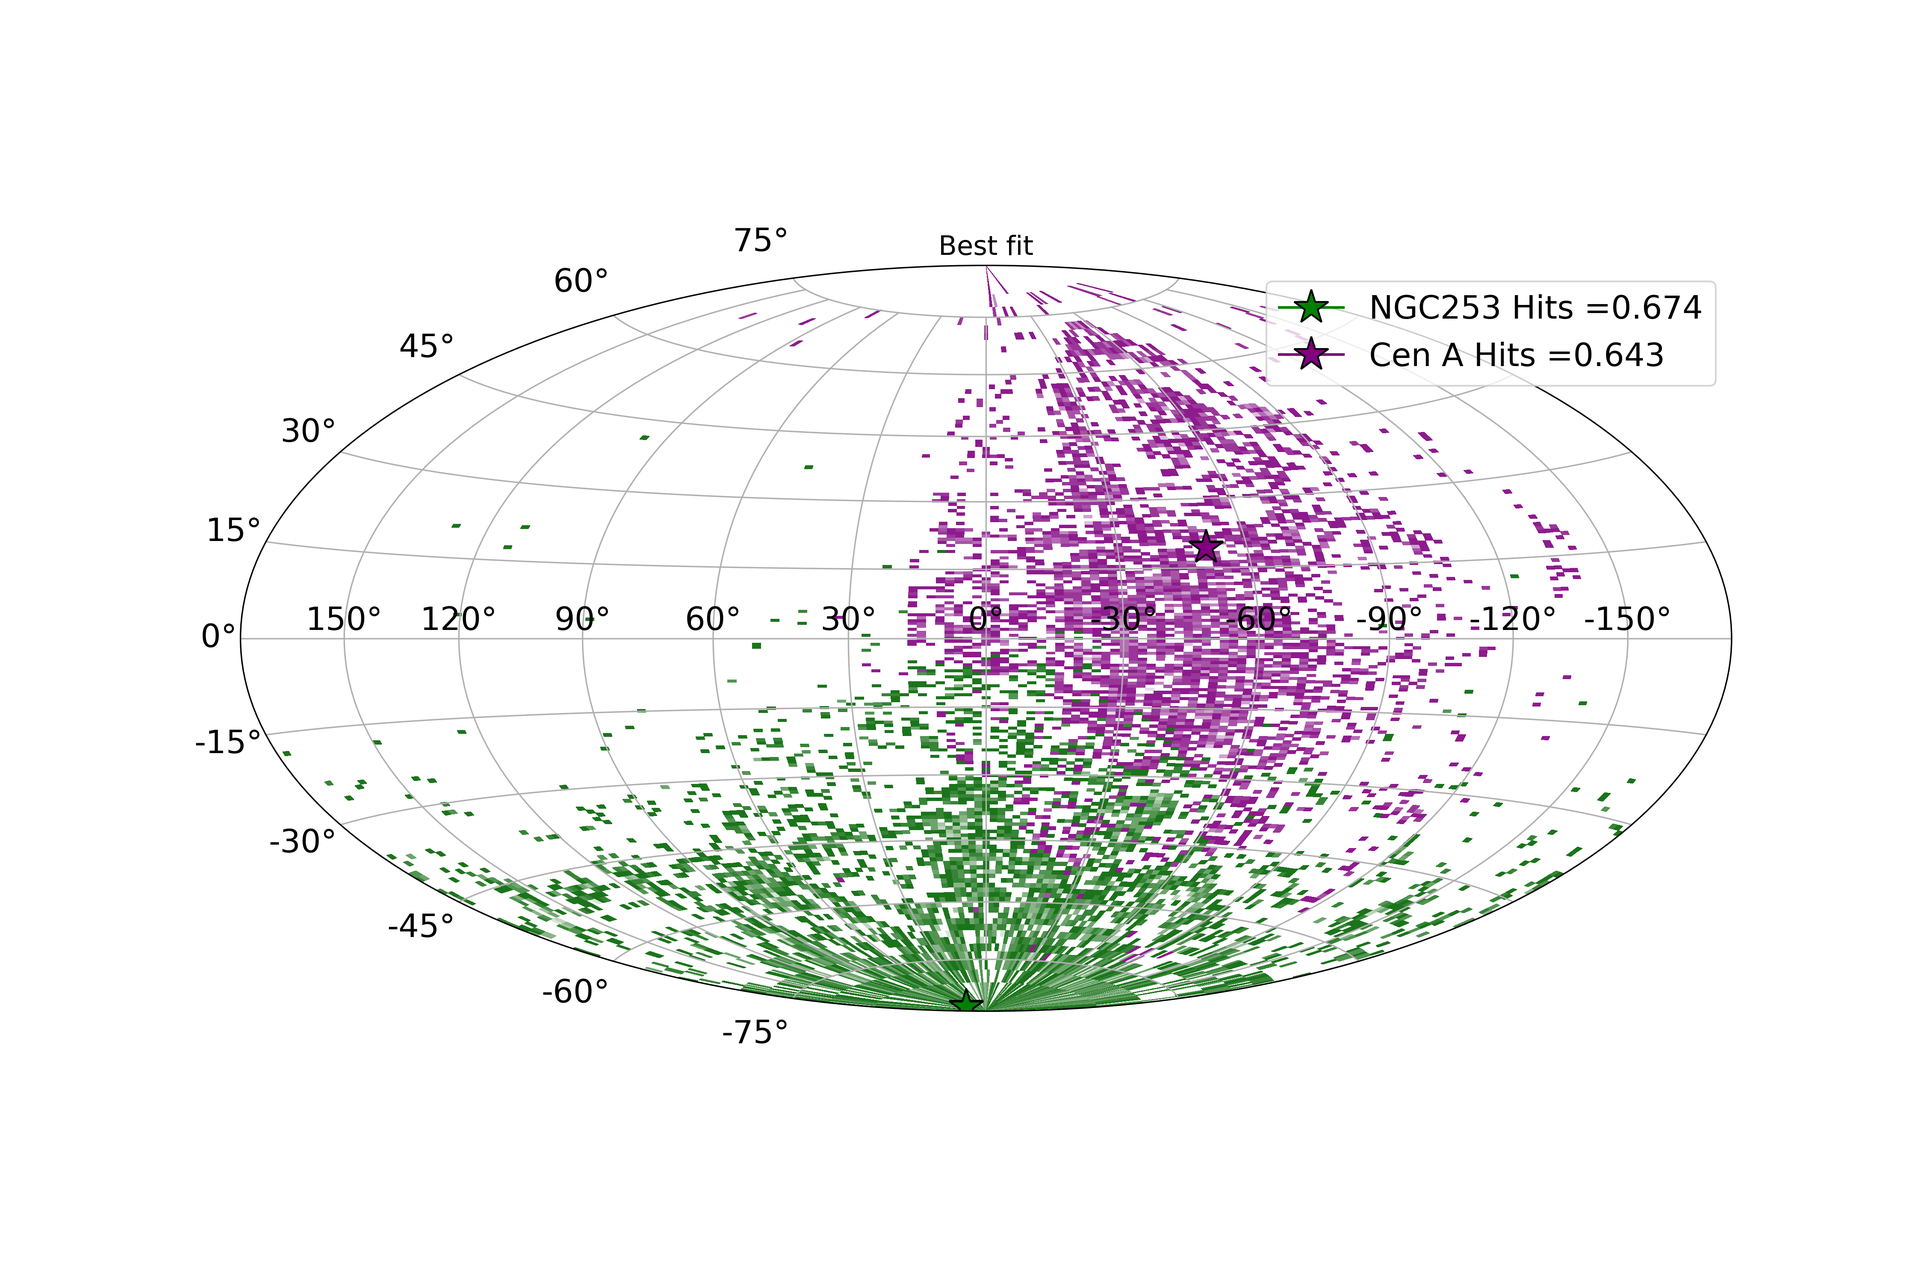
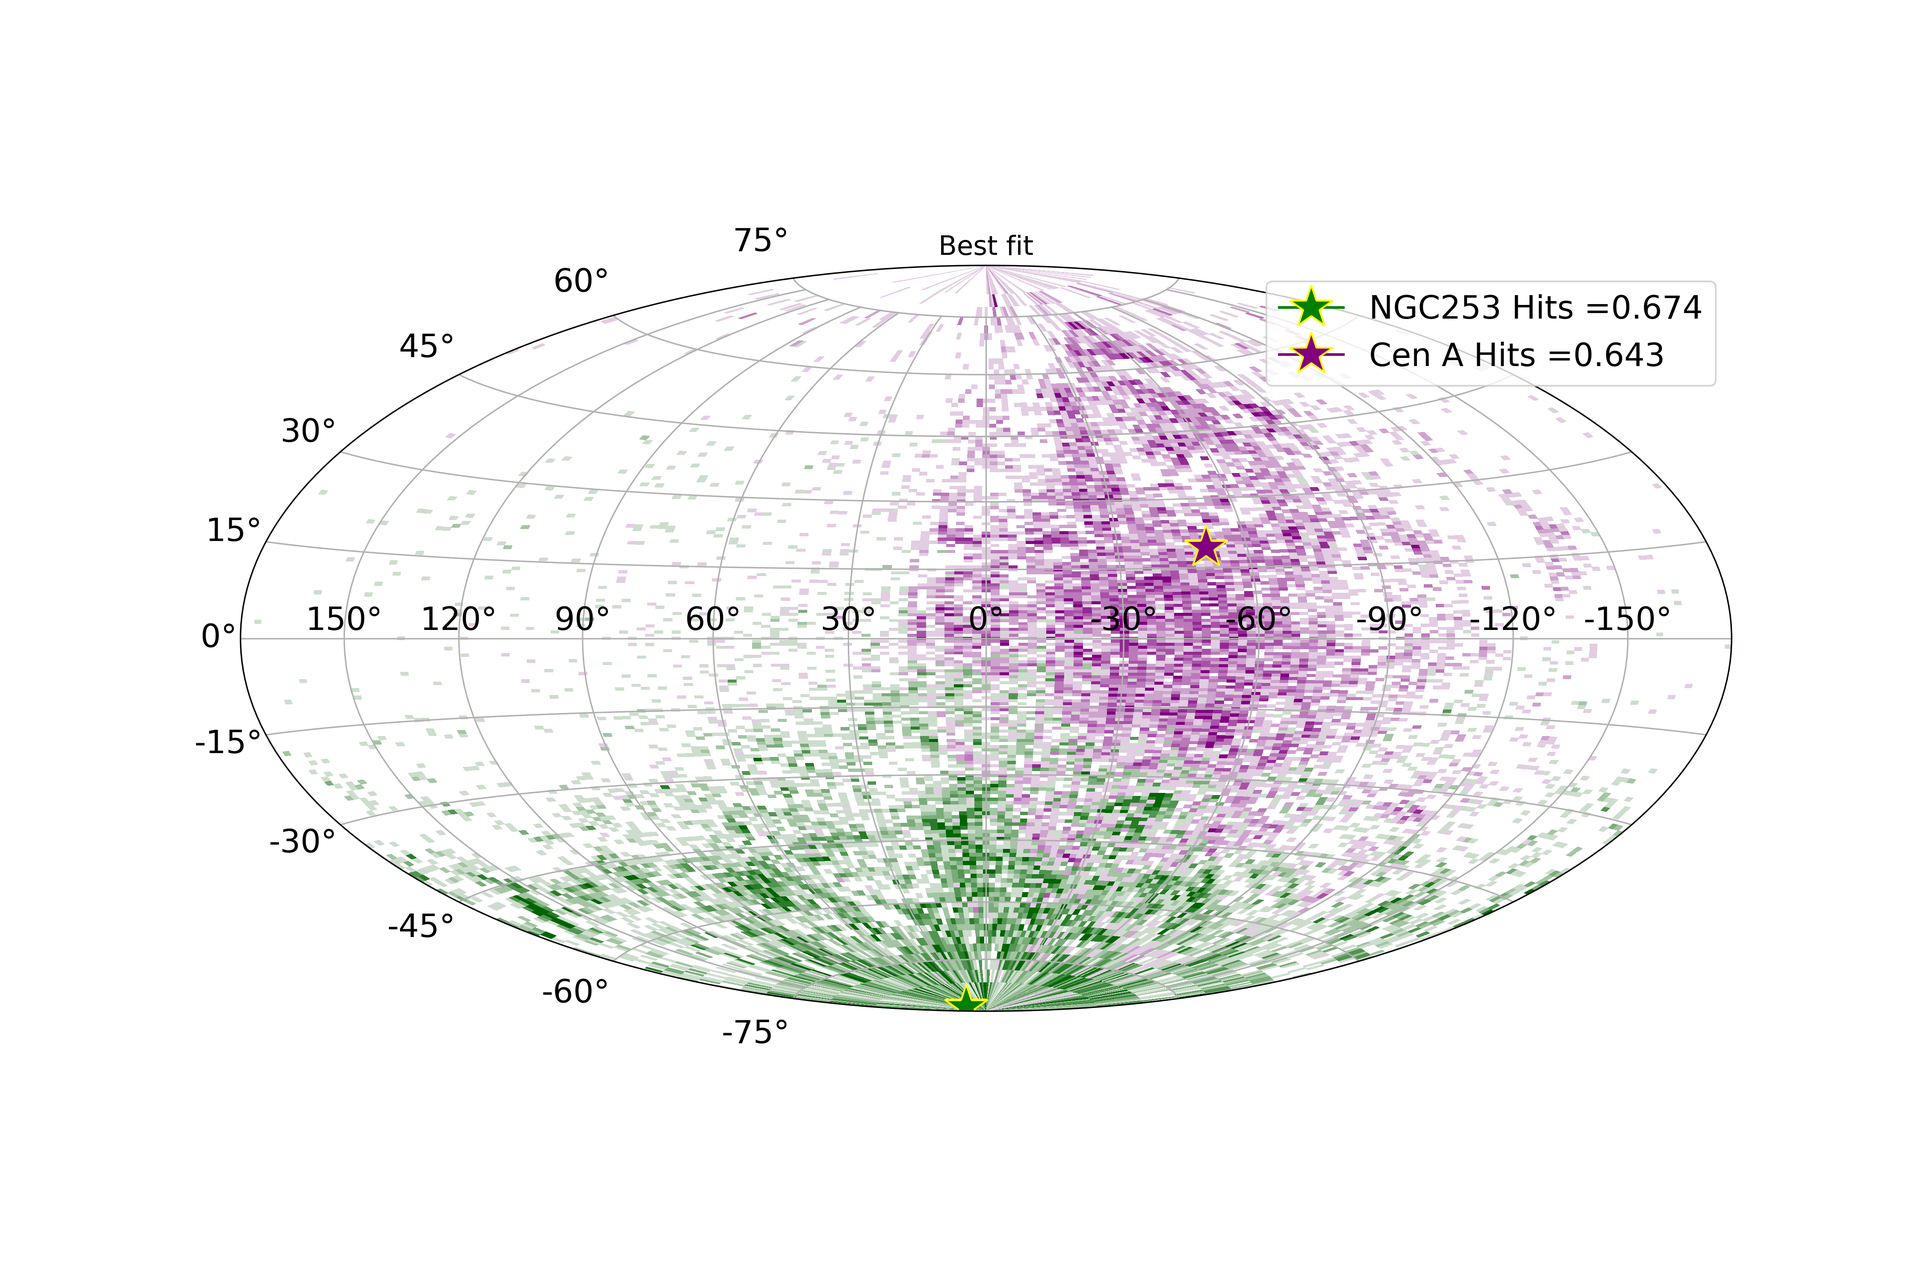
As of PM Jan 27

Changed region(s): [[0.1867, 0.186, 0.84, 0.806], [0.3111, 0.465, 0.3422, 0.496], [0.1556, 0.589, 0.1867, 0.62]]

diff --git a/main.tex b/main.tex
@@ -68,19 +68,18 @@ Several efforts have  been made in modelling magnetic fields in the Galaxy namel
 
 % Short note on non-thermal electron distribution.
 \Vasu{This paragraph needs more work}
-Apart from the Galactic magnetic field, our understanding of the non-thermal electron distribution in the Galaxy is also poor. We have some information on the distribution of cosmic ray electrons from the observations made by \Vasu{enter observation details.}\hyperlink{CR spectra}{https://arxiv.org/pdf/1108.4822.pdf} which peaks at 1GeV.
-Currently, there are a few ways to model the spatial distribution of these relativistic electrons; for example, with GALPROP \cite{Hammurabi} or the analytical WMAP model \cite{WMAP_Page}. \Arjen{Perhaps this paragraph can be extended a bit. Why do we care about the non-thermal electron distribution when talking about the Galactic magnetic field? Why is our knowledge of the non-thermal electron distribution so poor? How can it be measured and how do the models that you mention relate to the measurements?} \Vasu{Currently working on it.}
+Apart from the Galactic magnetic field, our understanding of the non-thermal electron distribution in the Galaxy is also poor. We have some information on the distribution of cosmic ray electrons from the observations made by AMS01 \cite{AMS_2002},CAPRICE94 \cite{CAPRICE_2001} , HEAT\cite{Heat_2001},SANRIKU\cite{Sanriku_1999}, BETS\cite{Bets_2001}, PPT-BETS\cite{PPT_BETS} , ATIC-1-2\cite{AITC_1_2},H.E.S.S.\cite{HESS_2008}\cite{HESS_2009}, Fermi-LAT \cite{FERMI_2009}\cite{FERMI_2010}, PAMELA \cite{Pamela}. Currently, there are a few ways to model the spatial distribution of these relativistic electrons; for example, with GALPROP \cite{Hammurabi} \cite{Orlando_2011} or the analytical WMAP model \cite{WMAP_Page}. The knowledge of non-thermal electrons is imperative in modelling Galactic magnetic field and generating synchrotron maps.  \Arjen{Perhaps this paragraph can be extended a bit. Why do we care about the non-thermal electron distribution when talking about the Galactic magnetic field? Why is our knowledge of the non-thermal electron distribution so poor? How can it be measured and how do the models that you mention relate to the measurements?} \Vasu{Currently working on it.}
 However, when modelling Galactic magnetic fields, Galactic cosmic ray electrons are not the only particles of interest. 
 
 % Importance of UHECRs
-An understanding of Galactic magnetic fields is tied to an understanding of the propagation and arrival direction of extra-galactic cosmic rays (with energies higher than $\approx$~$10^{18}$), also known  as ultra high energy cosmic rays (UHECRs). These UHECRs are constituted by charged protons or nuclei, and therefore their origin directions are scrambled by the magnetic fields in the path between the source and earth. The paths of these UHECRs can, therefore, be drastically changed depending on the strength and geometry of the field. Different models of the Galactic magnetic field give vastly different predictions for the deflection of UHECRs (see e.g.~Ref.~\textcolor{blue}{ADD REF}). Recently, significant anisotropies in the UHECR sky have been discovered~\textcolor{blue}{REFS TO DIPOLE/STARBURST CORRELATIONS/TA HOTSPOT}. Due to the deflections in the Galactic magnetic fields, the interpretation of these results in terms of the localisation of the UHECR sources is extremely hard and hence, the knowledge of Galactic magnetic fields is extremely important. 
+The propagation of cosmic rays is vital to understand their sources, and this is in turn is limited by our understanding of the intervening magnetic fields. Unfortunately, both Galactic and extra-Galactic magnetic fields are presently poorly understood. Arrival direction of extra-galactic cosmic rays (with energies higher than $\approx$~$10^{18}$), also known  as ultra high energy cosmic rays (UHECRs). These UHECRs are constituted by charged protons or nuclei, and therefore their origin directions are scrambled by the magnetic fields in the path between the source and earth. The paths of these UHECRs can, therefore, be drastically changed depending on the strength and geometry of the field. Different models of the Galactic magnetic field give vastly different predictions for the deflection of UHECRs (see e.g.~Ref.~\textcolor{blue}{ADD REF}). Recently, significant anisotropies in the UHECR sky have been discovered~\textcolor{blue}{REFS TO DIPOLE/STARBURST CORRELATIONS/TA HOTSPOT}. Due to the deflections in the Galactic magnetic fields, the interpretation of these results in terms of the localisation of the UHECR sources is extremely hard and hence, the knowledge of Galactic magnetic fields is extremely important. 
 
 % Introduction to brief layout of the paper
 The structure of this paper is the following. In section~\ref{Methods}, we provide a description of the electron distribution and the toy magnetic field model adopted in our study. In section~\ref{Results} synthetic polarised synchrotron maps are produced adopting this model, which are then compared against the Planck data. A grid scan of the model against the data is then made in order that constrained model parameters are obtained. In section~\ref{Deflections} we determine the arrival directions of ultra high energy cosmic rays $\rm E = 30$~EeV from our toy model and discuss how the uncertainties in the parameters can propagate errors in estimating the cosmic ray directions. %We also compare results from the toy model and the halo fields from JF12 model.
 Lastly, in section~\ref{Conclusions} we summarise our conclusions.
 
 
-\section{Methodology}
+\section{Methodology - Polarised synchrotron emission}
 \label{Methods}
 
 % Toy model introduction and comparison to JF12 
@@ -137,12 +136,10 @@ in units of ${\rm cm}^{-3}$, $p =3$ is the spectral index. The parameters, $C_\m
 
 \subsubsection{Intensity \& polarisation}
 Synchrotron radiation or magneto-bremsstrahlung radiation is the radiation produced due to charged particles that gyrate at relativistic speeds around a static magnetic field. The radiation produced via synchrotron is often linearly polarised.
-%The radiation received from a single particle is elliptically polarised and the sense of polarisation (right or left handed) is determined by whether the line of sight sits inside or outside the cone of radiation.
-%However, for a distribution of particles that vary smoothly with the pitch angle, the elliptical component cancels out and so the emission cones will contribute equally on each side of the line of sight. The radiation then is linearly polarised. 
+
 The polarised emission can be visualised as an ellipse where the major axis is the perpendicular component ($J_{\rm \perp}$) and the minor axis is the parallel ($J_{\parallel}$) component. We provide a detailed explanation of this in appendix~(\ref{Appendix_A}). 
 
 The two polarisation emission components, $J_{\perp}$ and $J_{\parallel}$, describe the emission level for a  given peak photon energy $E_{\gamma}^{\mathrm{peak}}$. Expressions for these two components are provided below in eqns~\ref{Jperp} and \ref{Jpara},
-%In this case, $E_{\gamma}^{\mathrm{peak}} = 1.175 \times 10^{-4}$~eV which is corresponding 28.4~GHz, the peak frequency for 30~GHz Planck data.
 
 \begin{strip}
 \begin{equation}
@@ -201,21 +198,26 @@ Utilising the setup described in the previous section (see section~\ref{Methods}
 
 %% Handling of data 
 In our study, we mask out three regions from our skymaps. The first of these is in the Galactic disc region between b = $(-15^{\circ},15^{\circ})$. For the second region, based on observations from \cite{eROSITA} and \cite{Su_2010}, we block out longitudes  $\geq \pm 90^{\circ}$ from the Galactic center (ie. all direction pointing away from the Galactic center direction), so as to ensure that our analysis only covers the region occupied by the Galactic Halo (Fermi and eRosita) bubbles. Lastly, we block out the region associated with the North Polar Spur (NPS). Our motivation here is that the higher latitudes of NPS seem to follow a trend to be originating locally rather than from Galactic center based on the starlight polarisation observations \cite{Gina_2021}. In order to remain as impartial as possible for the designation of this region, we adopt a cut for it selected in \cite{Wolleben_2007}. In fig.~\ref{fig:Skymaps} observational and synthetic skymaps are shown with these three regions removed.
-To obtain best-fit for our model we ran a grid search for over a million configurations. For each toy configuration, a synthetic skymap was generated using Healpix \cite{Healpix_2005}, adopting a resolution with Nside = 32. Since the interests of our study are focused on large scale structures, both the synthetic skymaps and observational data were smoothed out, using a Gaussian kernel, on size scale of $15^{\circ}$, to wash out smaller scale features. We then compare the simulated polarised emission with the Planck data at 30~GHz by evaluating the $\chi^{2}$ value of the model fit to the data. To find the best fit parameters and their constraints, we carry out a grid search over the 5 free parameters, sampling in total a million parameter points.
+
+%% Skymap comparison and explanation of smoothening method
+
+To obtain best-fit for our model we ran a grid search for over a million configurations. For each toy configuration, a synthetic skymap was generated using Healpix \cite{Healpix_2005}, adopting a resolution with Nside = 32. Since the interests of our study are focused on large scale structures, both the synthetic skymaps and observational data were smoothed out, using a Gaussian kernel, on size scale of $15^{\circ}$, to wash out smaller scale features. We then compare the simulated polarised emission with the Planck data at 30~GHz by evaluating the $\chi^{2}$ value of the model fit to the data. To find the best fit parameters and their constraints, we carry out a grid search over the 5 free parameters, sampling in total two million parameter points.
 
 
 \subsection{Observational Data}
 % discussion of data sets used
-For our synchrotron emission study We use the publicly available from the Planck satellite mission \footnote{\textcolor{purple}{http://pla.esac.esa.int/pla/}}. Specifically, we use the polarised radio data at 30~GHz from Planck where the peak frequency is at 28.4~GHz, with a band width of 9.8~GHz. At this frequency a considerable level of polarised synchrotron emission is observed, with a only a small level of Faraday rotation occurring at these high frequencies. However, we also note that in this 30~GHz band, the Planck data cannot be used to probe synchrotron intensity directly, since at this frequency the unpolarised sky receives a considerable contributions from both thermal bremsstrahlung and anomalous microwave emission, as well as synchrotron radiation \Andrew{reference needed to justify this claim}. 
+For our synchrotron emission study We use the publicly available from the Planck satellite mission \footnote{\textcolor{purple}{http://pla.esac.esa.int/pla/}}. Specifically, we use the polarised radio data at 30~GHz from Planck where the peak frequency is at 28.4~GHz, with a band width of 9.8~GHz. At this frequency a considerable level of polarised synchrotron emission is observed, with a only a small level of Faraday rotation occurring at these high frequencies. However, we also note that in this 30~GHz band, the Planck data cannot be used to probe synchrotron intensity directly, since at this frequency the unpolarised sky receives a considerable contributions from both thermal bremsstrahlung and anomalous microwave emission, as well as synchrotron radiation \cite{Planck_XIX} and \cite{Planck_XLII}. 
 
 \section{Results - Part I}
 \label{Results}
-
-%% Skymap comparison and explanation of smoothening method
+%% Details of uncertainities 
+We obtained 1$~\sigma$ constraint on our model shown in table~$\ref{Para_table}$. For the structured magnetic field strength $B_{\rm str}$ we obtain the best fit value of 3~$\mu$G with the upper extreme being 11~$\mu$G
+and the lower extreme 1~$\mu$G. Similarly, turbulent magnetic fields $B_{\rm tur}$ the mean value is 6~$\mu$G and upper and lower extreme values are 4~$\mu$G and 12~$\mu$G respectively. For spatial dimensions, we obtain a best fit vale of 7~kpc for the azimuthal extent $Z_{\rm Mag}/Z_{\rm el}$ and uncertainities of $\pm$ 1~kpc. These values are in agreement with the observations made by FERMI\cite{Su_2010}, S-PASS\cite{Carretti_2013} and eROSITA\cite{eROSITA}. We do not however, obtain an upper extreme value for $R_{\rm Mag}/R_{\rm el}$ only a lower extreme value of 4~kpc with the best fit value being 5~kpc. Again this best fit value is in agreement with the radial extent as obtained by the observations.
 
 In Fig.~\ref{fig:Skymaps} the smoothened skymap obtained from the best fit value of the parameters and the smoothened polarised Planck data is shown along with the residuals. The best-fit values used for the parameters are provided in table~\ref{Para_table}. 
 %% Polarisation fraction
 We next estimate the polarisation fraction obtained by our best-fit toy-model which is given in figure \ref{fig:Skymaps} which was calculated taking the ratio of the polarised to the total intensity. The polarisation fraction for the best-fit toy model is comparable to the values as seen in the observation data \cite{Carretti_2013} and \cite{WMAP_Page}.
+
 %% Polarised Skymap
 
 \begin{figure*}
@@ -234,7 +236,7 @@ We next estimate the polarisation fraction obtained by our best-fit toy-model wh
 
 \begin{table*}
 \centering
-\caption{CAPTION TEXT NEEDED HERE}
+\caption{Table of best fit parameters with uncertainties}
 \begin{tabular}{ |p{4.cm}|p{4.5cm}|p{6.5cm}|  }
 \hline
 \multicolumn{3}{|c|}{Best-fit value with 1-$\sigma$ constraint} \\
@@ -257,7 +259,8 @@ ${\rm{log_{10}}}(C_{\rm norm} [{\rm cm}^{-3}]$) & ${-12.43}_{{-1.31}}^{{+0.32}}$
 \label{Para_table}
 \end{table*}
 
-\section{Cosmic ray deflections from different magnetic field models}
+% \section{Cosmic ray deflections from different magnetic field models}
+\section{Methodology - Cosmic ray deflections from different magnetic field models}
 \label{Deflections}
 
 When charged particles propagate through magnetic fields, they precess around the field lines by virtue of the Lorentz force 
@@ -266,12 +269,10 @@ When charged particles propagate through magnetic fields, they precess around th
 \end{eqnarray}
 where $\bfm{\beta}$ is the particle's velocity vector, and $r_{L}$ is the particle's Larmor radius. UHECRs undergo the same Lorentz force when propagating through Galactic magnetic fields. The extra-Galactic magnetic field is considered to be weak, with $B < \rm {nG}$ for $\lambda_{\rm coh}=1$~Mpc \cite{Barrow_1997}, \cite{Kronberg_2007}, and the ultra-high energy cosmic rays UHECRs $E > 10^{19}$ EeV and subsequently $r_{L}>{\rm 10~Mpc}$ are therefore not sensitive to them over 10~Mpc propagation distance scales. However, once they enter the Galaxy magnetic fields are of the order of few $\mu$G. In case for a proton at 6~EeV in $6~\mu$G field the $r_L \approx 1 ~ \rm kpc$ , this implies that the proton will be subject to deflection by the large scale Galactic magnetic fields.
 
-The propagation of cosmic rays is vital to understand their sources, and this is in turn is limited by our understanding of the intervening magnetic fields. Unfortunately, both Galactic and extra-Galactic magnetic fields are presently poorly understood. In this section we attempt to address the effect the toy model magnetic fields will have on the deflections of UHECRs. The aim of this study is not to depict reality but to understand how our simple structured and turbulent halo magnetic field model affects the propagation of extra-Galactic cosmic rays. 
-
-To propagate the cosmic rays we used the CRPropa3's \cite{CRPropa3_2016} Boris pusher scheme in order to ensure particle's trajectory evolution satisfies the Lorentz force equation. CRPropa conserves the total energy each particle during the propagation.  \Vasu{Arjen may be you have some comment on this ?!}
+To propagate the cosmic rays we used the CRPropa3's \cite{CRPropa3_2016} Boris pusher scheme in order to ensure particle's trajectory evolution satisfies the Lorentz force equation. CRPropa conserves the total energy each particle during the propagation. 
 To achieve this we backtrack $10^7$ cosmic rays starting isotropically from earth to a distance of 20~kpc. We use nitrogen as a choice of our cosmic ray particles at 40~EeV energy. 
 
-
+\section{Results - II}
 In figure~\ref{fig:AD_Plots} we show, \textit{1)} the histogram of all sky in log (density/str) of the backtracked positions for the cosmic rays (\textbf{left}), there are 180 bins both for longitudes and latitudes.\textit{2)} is the histogram of binned arrival directions of cosmic rays in a $5^{\circ}$ region from two known sources (\textbf{right}) Centaurus A (lat = $\rm 19.42^{\circ}$, lon = $\rm 50.49^{\circ}$) and NGC 253 (lat = $\rm -87.96^{\circ}$, lon = $\rm 97.36^{\circ}$).  We normalise both the skymaps with first making histograms with no-magnetic fields and then dividing the histogram generated using toy model by the former. This gives us a normalised value of the number of hits obtained as seen on the right in the figure~\ref{fig:AD_Plots}.
 
 It can be seen that the best fit and lower extreme parameters can clearly help in associating the deflected particles with their potential source. However, in the case of upper extreme parameters any connection between the point of origin of cosmic rays and their final positions is inconclusive. Cosmic rays from  sources like NGC253 get completely deflected by the magnetic field and hence we obtain a suppressed flux $\approx 5\%$ . In case of Centaurus A the final positions are spread out on the entire sky making it impossible to associate it with the source. In table~{\ref{AD_table}} we show the 
@@ -309,7 +310,6 @@ It can be seen that the best fit and lower extreme parameters can clearly help i
 %%% CenA variance lat = 0.2504180851714255 and lon = 0.3876751990217161
 %%%%%%%%%%%%%%%%%%%%%%%%%%%%%%%%%%%%%%%%%%%%%%%%%%%%%%%%%%%%%%%%%%%%%%%%%%%%%%%%%%%%%%%%%%%%%%%%%%%%%%%%%%%%%%
 
-\caption{CAPTION TEXT GOES HERE}
 \label{AD_table}
 %\begin{center}
 \begin{table*}
@@ -355,6 +355,7 @@ It can be seen that the best fit and lower extreme parameters can clearly help i
 \includegraphics[width=0.49\linewidth]{Images/Bins_180_LB_N2_CenA_NGC253_Str_Tur_TM_40_EeV.png}\\
 \includegraphics[width=0.49\linewidth]{Images/Log_Bins_180_Historgam_UB_N2_Str_Tur_TM_40_EeV.png}
 \includegraphics[width=0.49\linewidth]{Images/Bins_180_UB_N2_CenA_NGC253_Str_Tur_TM_40_EeV.png}
+\includegraphics[width=0.49\linewidth]{Images/Colorbar.png}
 \caption{Log brightness of the backtracked positions for cosmic rays shown on \textbf{left} and the arrival directions of the cosmic rays from two known sources Cen A and NGC 253 on \textbf{right} (From table~\ref{Para_table} \textbf{Top} - Best Fit Parameters, {\textbf{Middle} - Lower extreme parameters)} \& {\textbf{Bottom} - Upper extreme parameters, we use $R_{\rm Mag} = $ 20~kpc since that is the maximum extent of the magnetic fields in our simulation.}}
 \label{fig:AD_Plots}
 \end{figure*}
